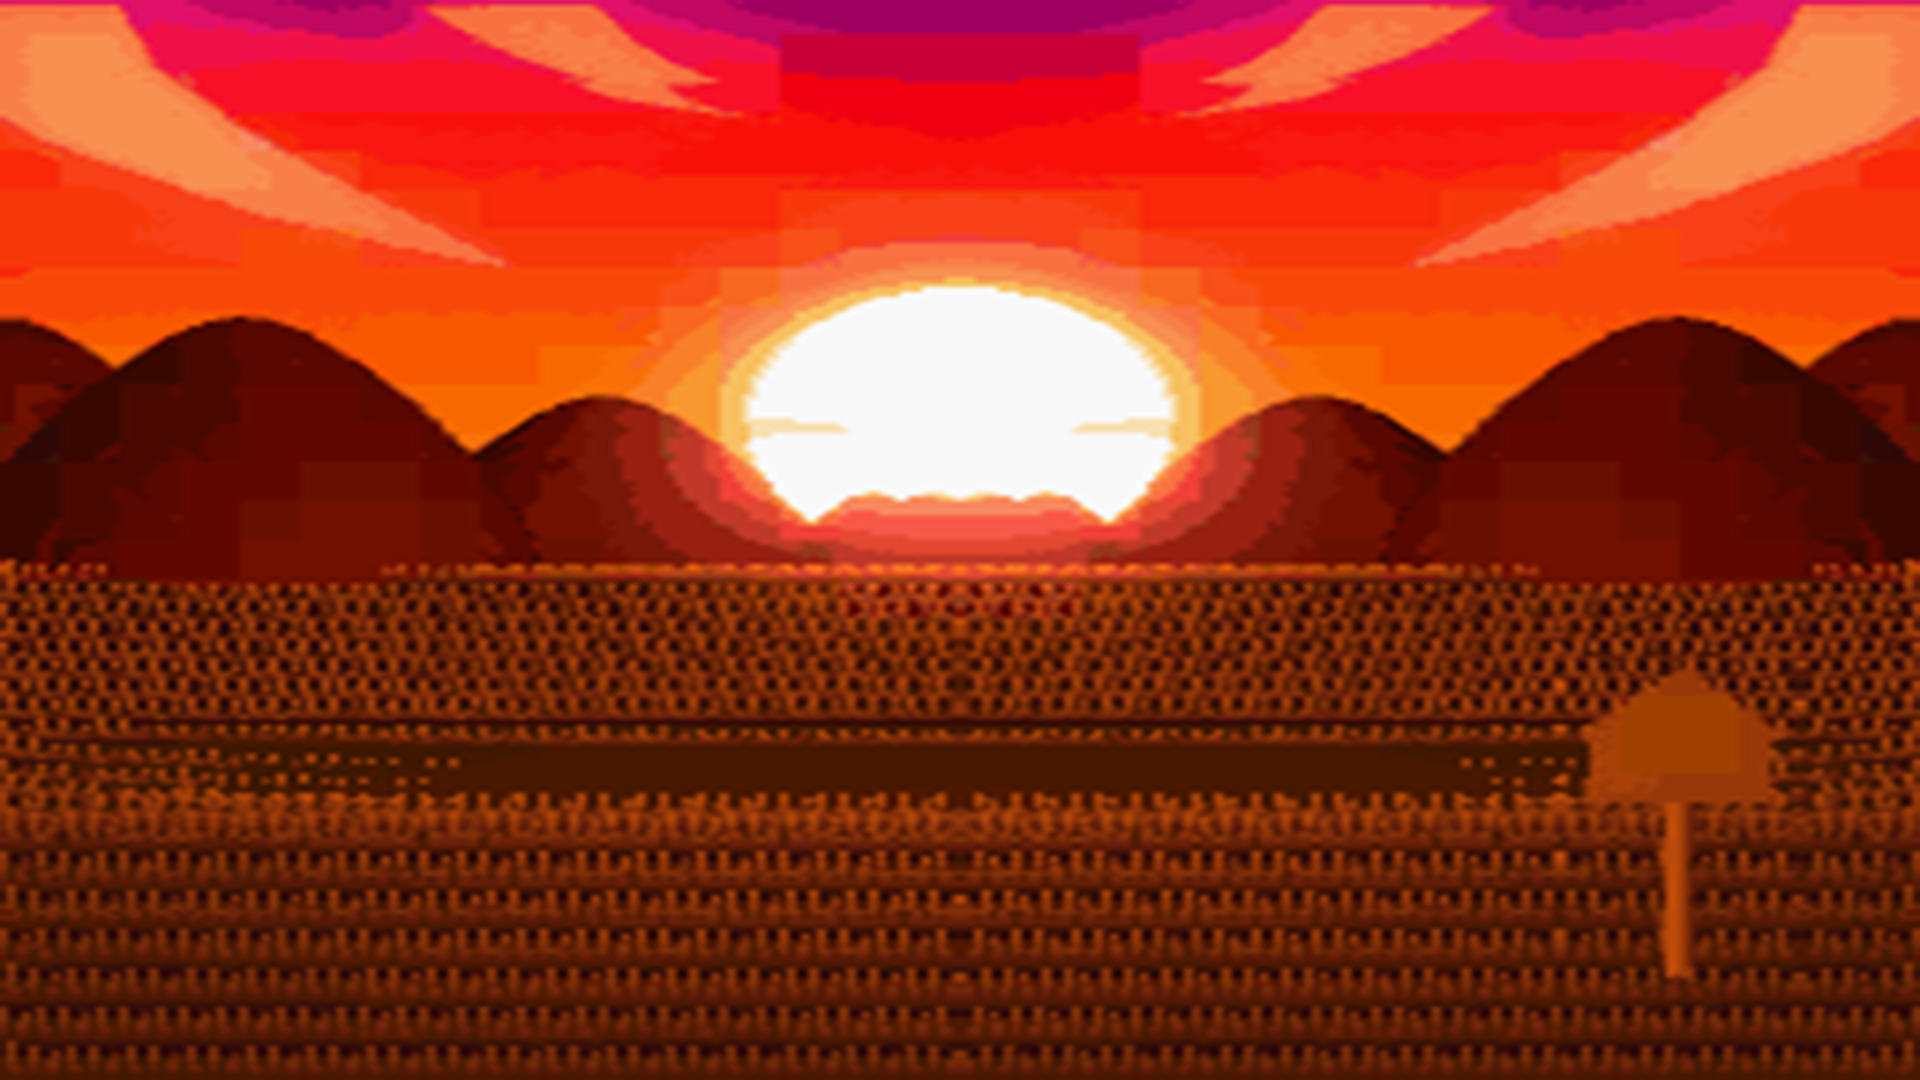
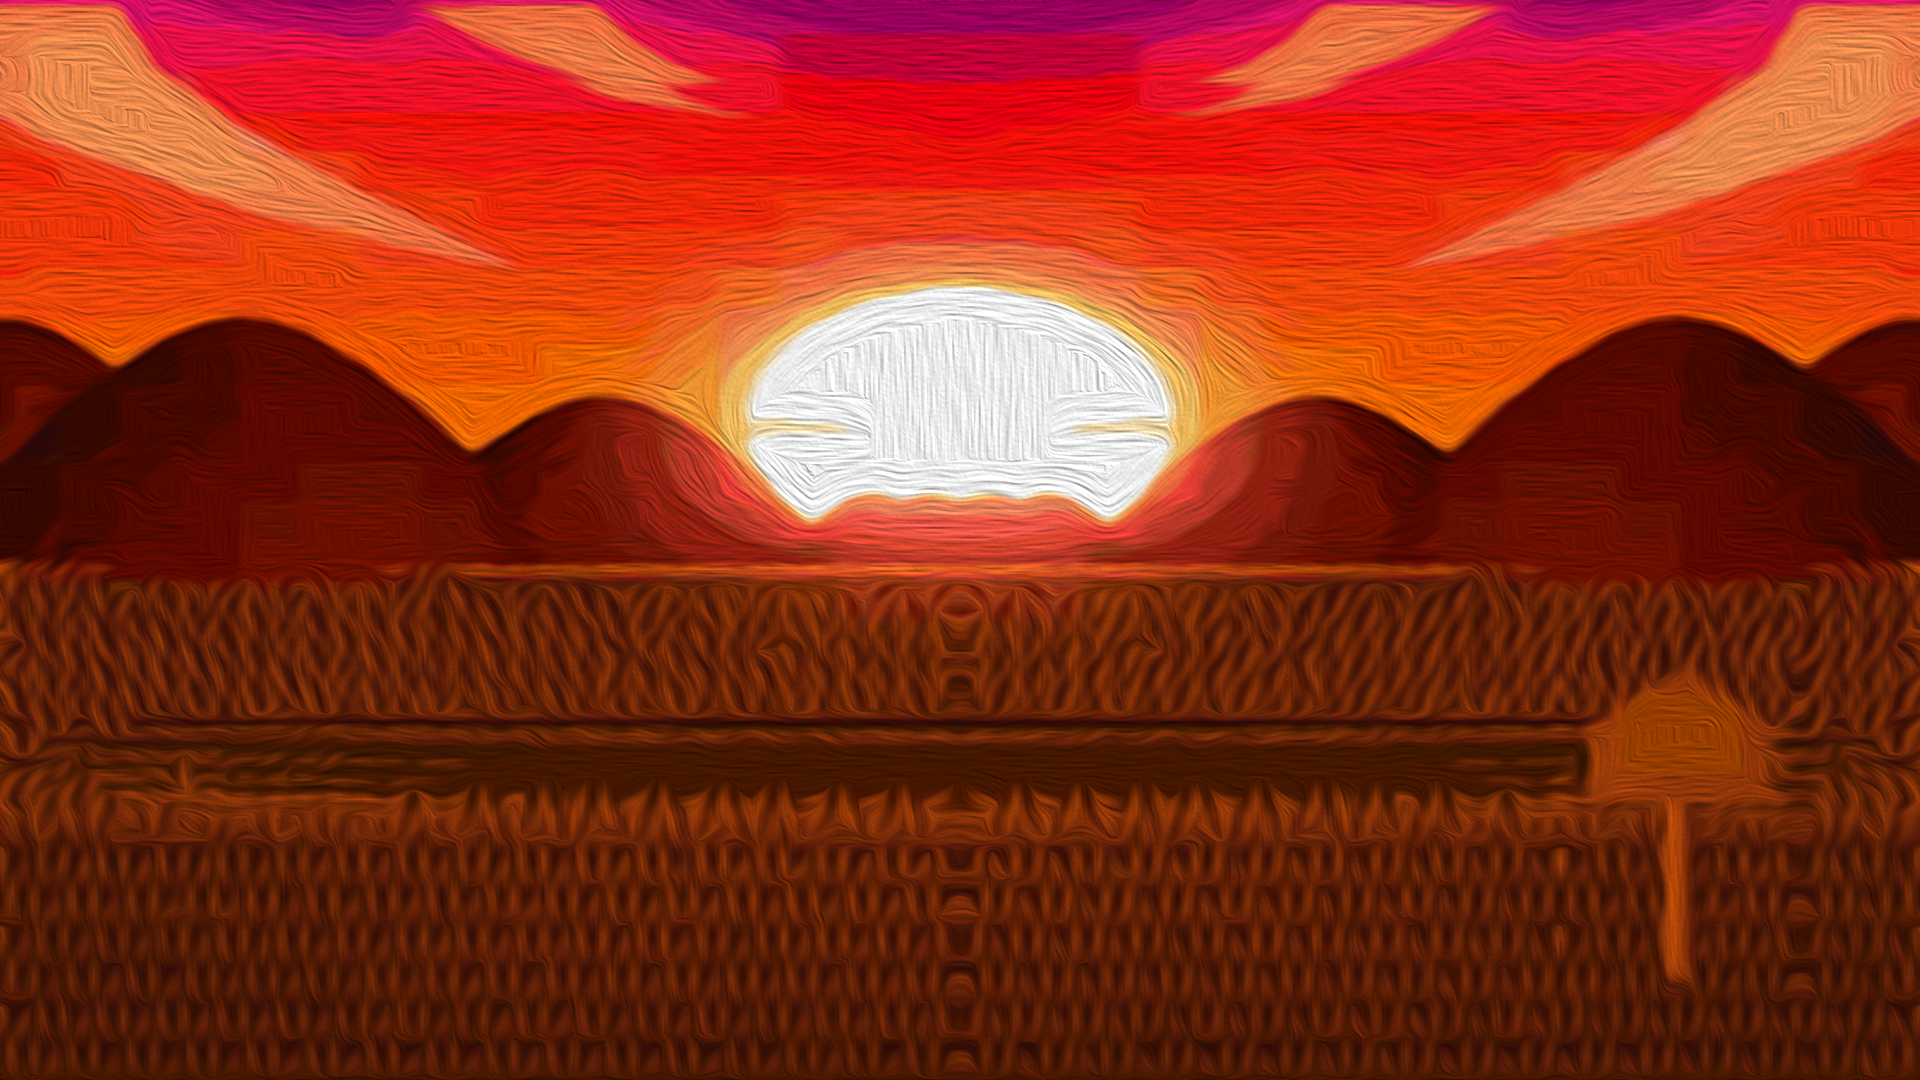
Sound and controls now working as intended

diff --git a/src/layers/GameLayer.js b/src/layers/GameLayer.js
@@ -2,17 +2,19 @@ class GameLayer extends Layer {
 
     constructor(mode) {
         super();
-        this.initiate(mode);
-        playAmbientMusic();
+        this.mode = mode;
+        this.initiate();
     }
 
-    initiate(mode) {
+    initiate() {
+        restartSound();
+        playAmbientMusic();
         this.background = new Model(images.backgroud, 1920*0.5, 1080*0.5);
         this.player1 = new Model(images.player1, 1920*0.2, 1080*0.63);
         this.player2 = new Model(images.player2, 1920*0.8, 1080*0.63);
         this.exclamation = new Model(images.exclamation, 1920*0.5, 1080*0.5);
         this.singleplayer = false;
-        if (mode==1)
+        if (this.mode==1)
             this.singleplayer=true;
         this.awaitingInput = false;
         this.launch = false;
@@ -23,7 +25,7 @@ class GameLayer extends Layer {
     }
 
     update() {
-        if (Math.random()*1000 < 10 && this.awaitingInput)
+        if (Math.random()*10000 < 10 && this.awaitingInput)
             this.launch = true;
         if (this.launch && !this.launched) {
             this.launched = true;
@@ -31,6 +33,7 @@ class GameLayer extends Layer {
         }
         if (this.decided && this.launch) { //A player already attacked
             //Winner animation
+            this.initiate();
         }
     }
 
@@ -54,8 +57,10 @@ class GameLayer extends Layer {
     processControls() {
         if (!this.awaitingInput)
             return;
-        //TODO: Rework this to allow for ties
+
+        console.log(controls.player1input);
         if (controls.player1input && !controls.player2input) {
+            controls.player1input = false;
             if (!this.launch)
                 this.playTie();
             this.attacker = 1;
@@ -64,6 +69,7 @@ class GameLayer extends Layer {
             return;
         }
         if (!controls.player1input && controls.player2input) {
+            controls.player2input = false;
             if (!this.launch)
                 this.playTie();
             this.attacker = 2;
@@ -75,6 +81,9 @@ class GameLayer extends Layer {
 
     playTie() {
         //A player moved before the signal
-        this.initiate();
+        this.background = new Model(images.inverseBackground, 1920*0.5, 1080*0.5);
+        window.setTimeout(function(){
+                this.initiate(this.mode); }
+            .bind(this), 3000);
     }
 }

diff --git a/src/layers/MenuLayer.js b/src/layers/MenuLayer.js
@@ -10,15 +10,15 @@ class MenuLayer extends Layer {
 
     processControls( ) {
         if (controls.singleplayer) {
+            controls.singleplayer = false;
             gameLayer = new GameLayer(1);
             layer = gameLayer;
-            controls.singleplayer = false;
         }
 
         else if (controls.multiplayer) {
+            controls.multiplayer = false;
             gameLayer = new GameLayer(2);
             layer = gameLayer;
-            controls.multiplayer = false;
         }
     }
 

diff --git a/src/AudioManager.js b/src/AudioManager.js
@@ -19,7 +19,13 @@ function playLaunchSound() {
     launchSound.play();
 }
 
-function stopMusic() {
+function restartSound() {
     ambientMusic.pause();
+    ambientMusic.currentTime = 0;
+    launchSound.pause();
+    launchSound.currentTime = 0;
+    matchStart.pause();
+    matchStart.currentTime = 0;
 }
+
 

diff --git a/src/Res.js b/src/Res.js
@@ -3,6 +3,7 @@ var images = {
     menu_background : "res/menubackground.png",
     exclamation : "res/exclamation.png",
     backgroud : "res/background.png",
+    inverseBackground : "res/invertBackground.png",
     player1: "res/player1.png",
     player2: "res/player2.png",
 };
